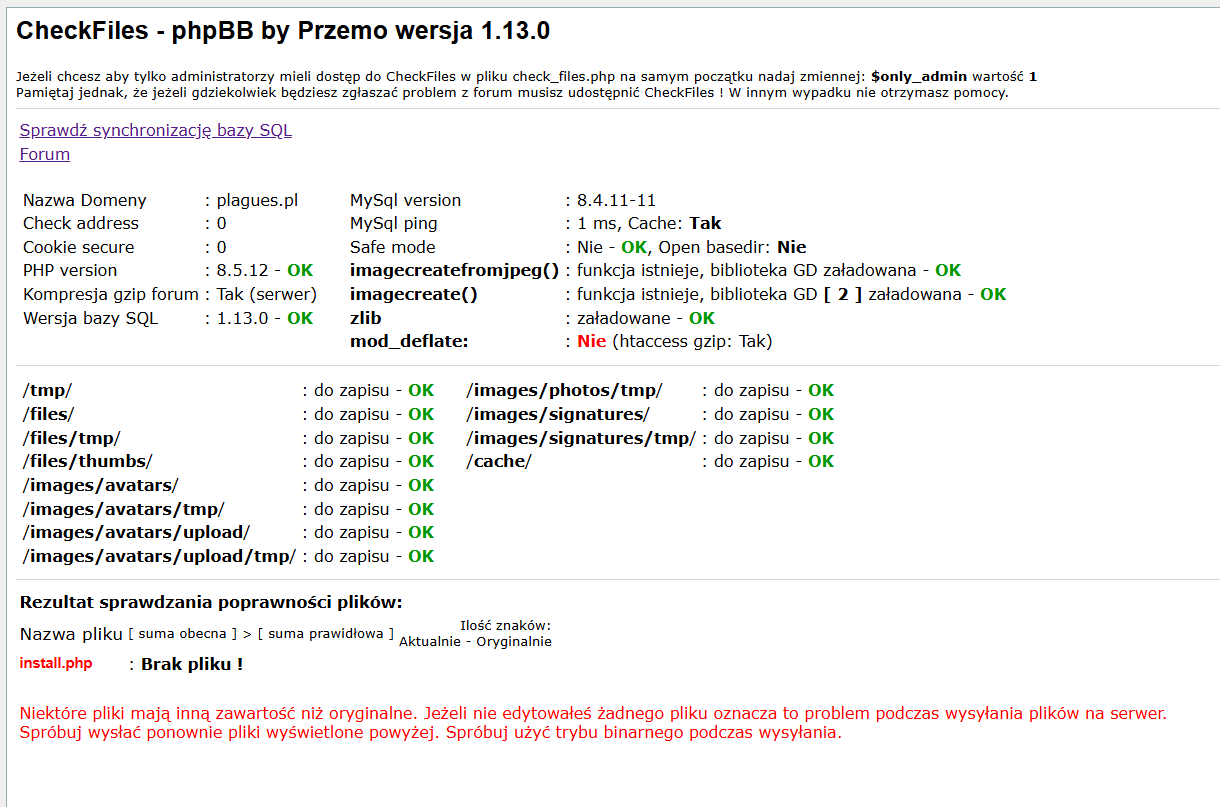
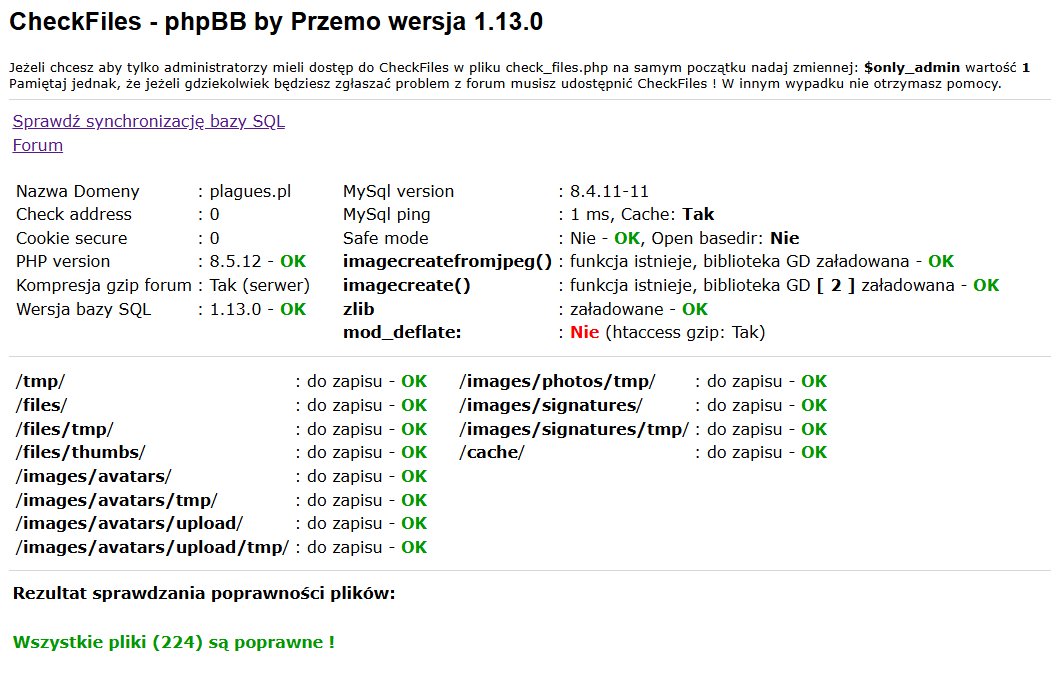
docs: replace CheckFiles screenshot in README

Changed region(s): [[0.0, 0.0909, 0.9743, 0.9394], [0.0, 0.0, 0.5176, 0.0606]]

diff --git a/README.md b/README.md
@@ -22,11 +22,9 @@ Projekt 1.13.0 wspiera **Plague Studio** ([plagues.pl](https://plagues.pl)).
 
 ## Zrzut z demo
 
-Kontrola Systemu na demo Plague Studio: PHP 8.5.12, MySQL 8.4.11-11 oraz wersja bazy 1.13.0.
+Kontrola Systemu na demo Plague Studio: PHP 8.5.12, MySQL 8.4.11-11, wersja bazy 1.13.0 i poprawny wynik kontroli wszystkich 224 plików.
 
-![Kontrola Systemu phpBB by Przemo 1.13.0 na PHP 8.5.12 i MySQL 8.4.11-11](docs/images/checkfiles-demo-php85.png)
-
-Na zrzucie widoczny jest brak `install.php`; pochodzi on sprzed poprawki CheckFiles, która wyklucza instalator z kontroli, ponieważ należy usunąć go po instalacji.
+![Kontrola Systemu phpBB by Przemo 1.13.0 na PHP 8.5.12 i MySQL 8.4.11-11 — wszystkie 224 pliki poprawne](docs/images/checkfiles-demo-php85.png)
 
 ## Instalacja
 
